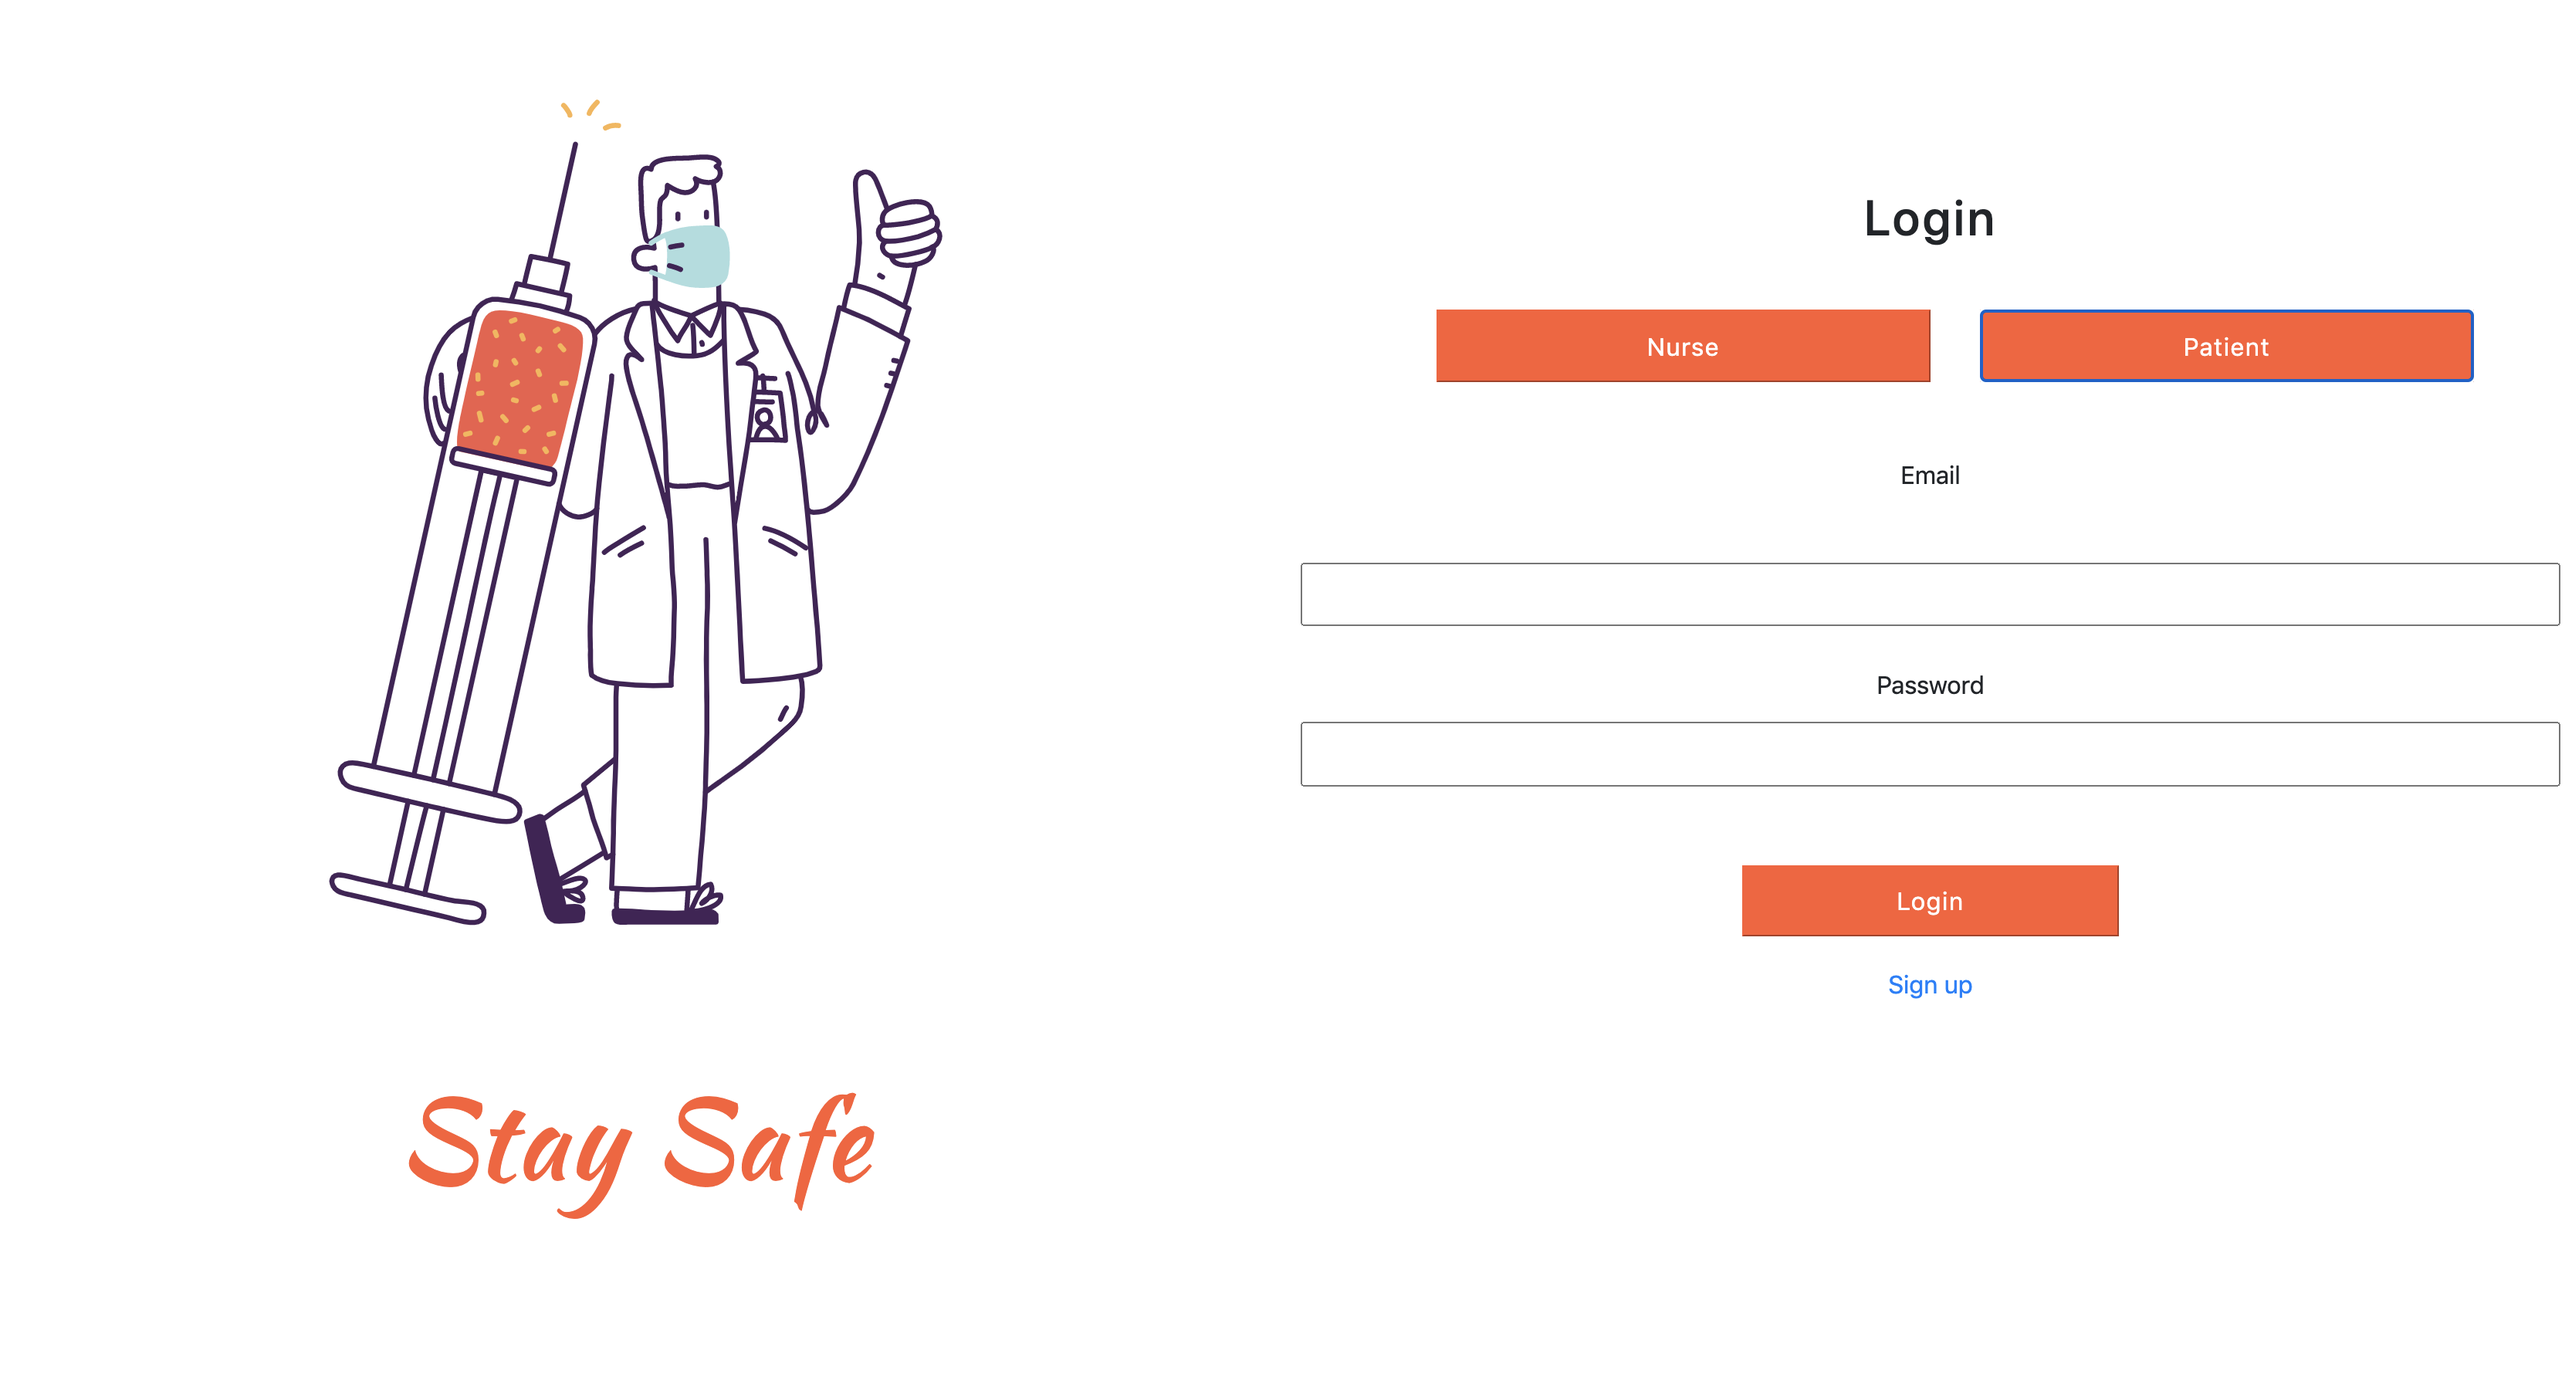
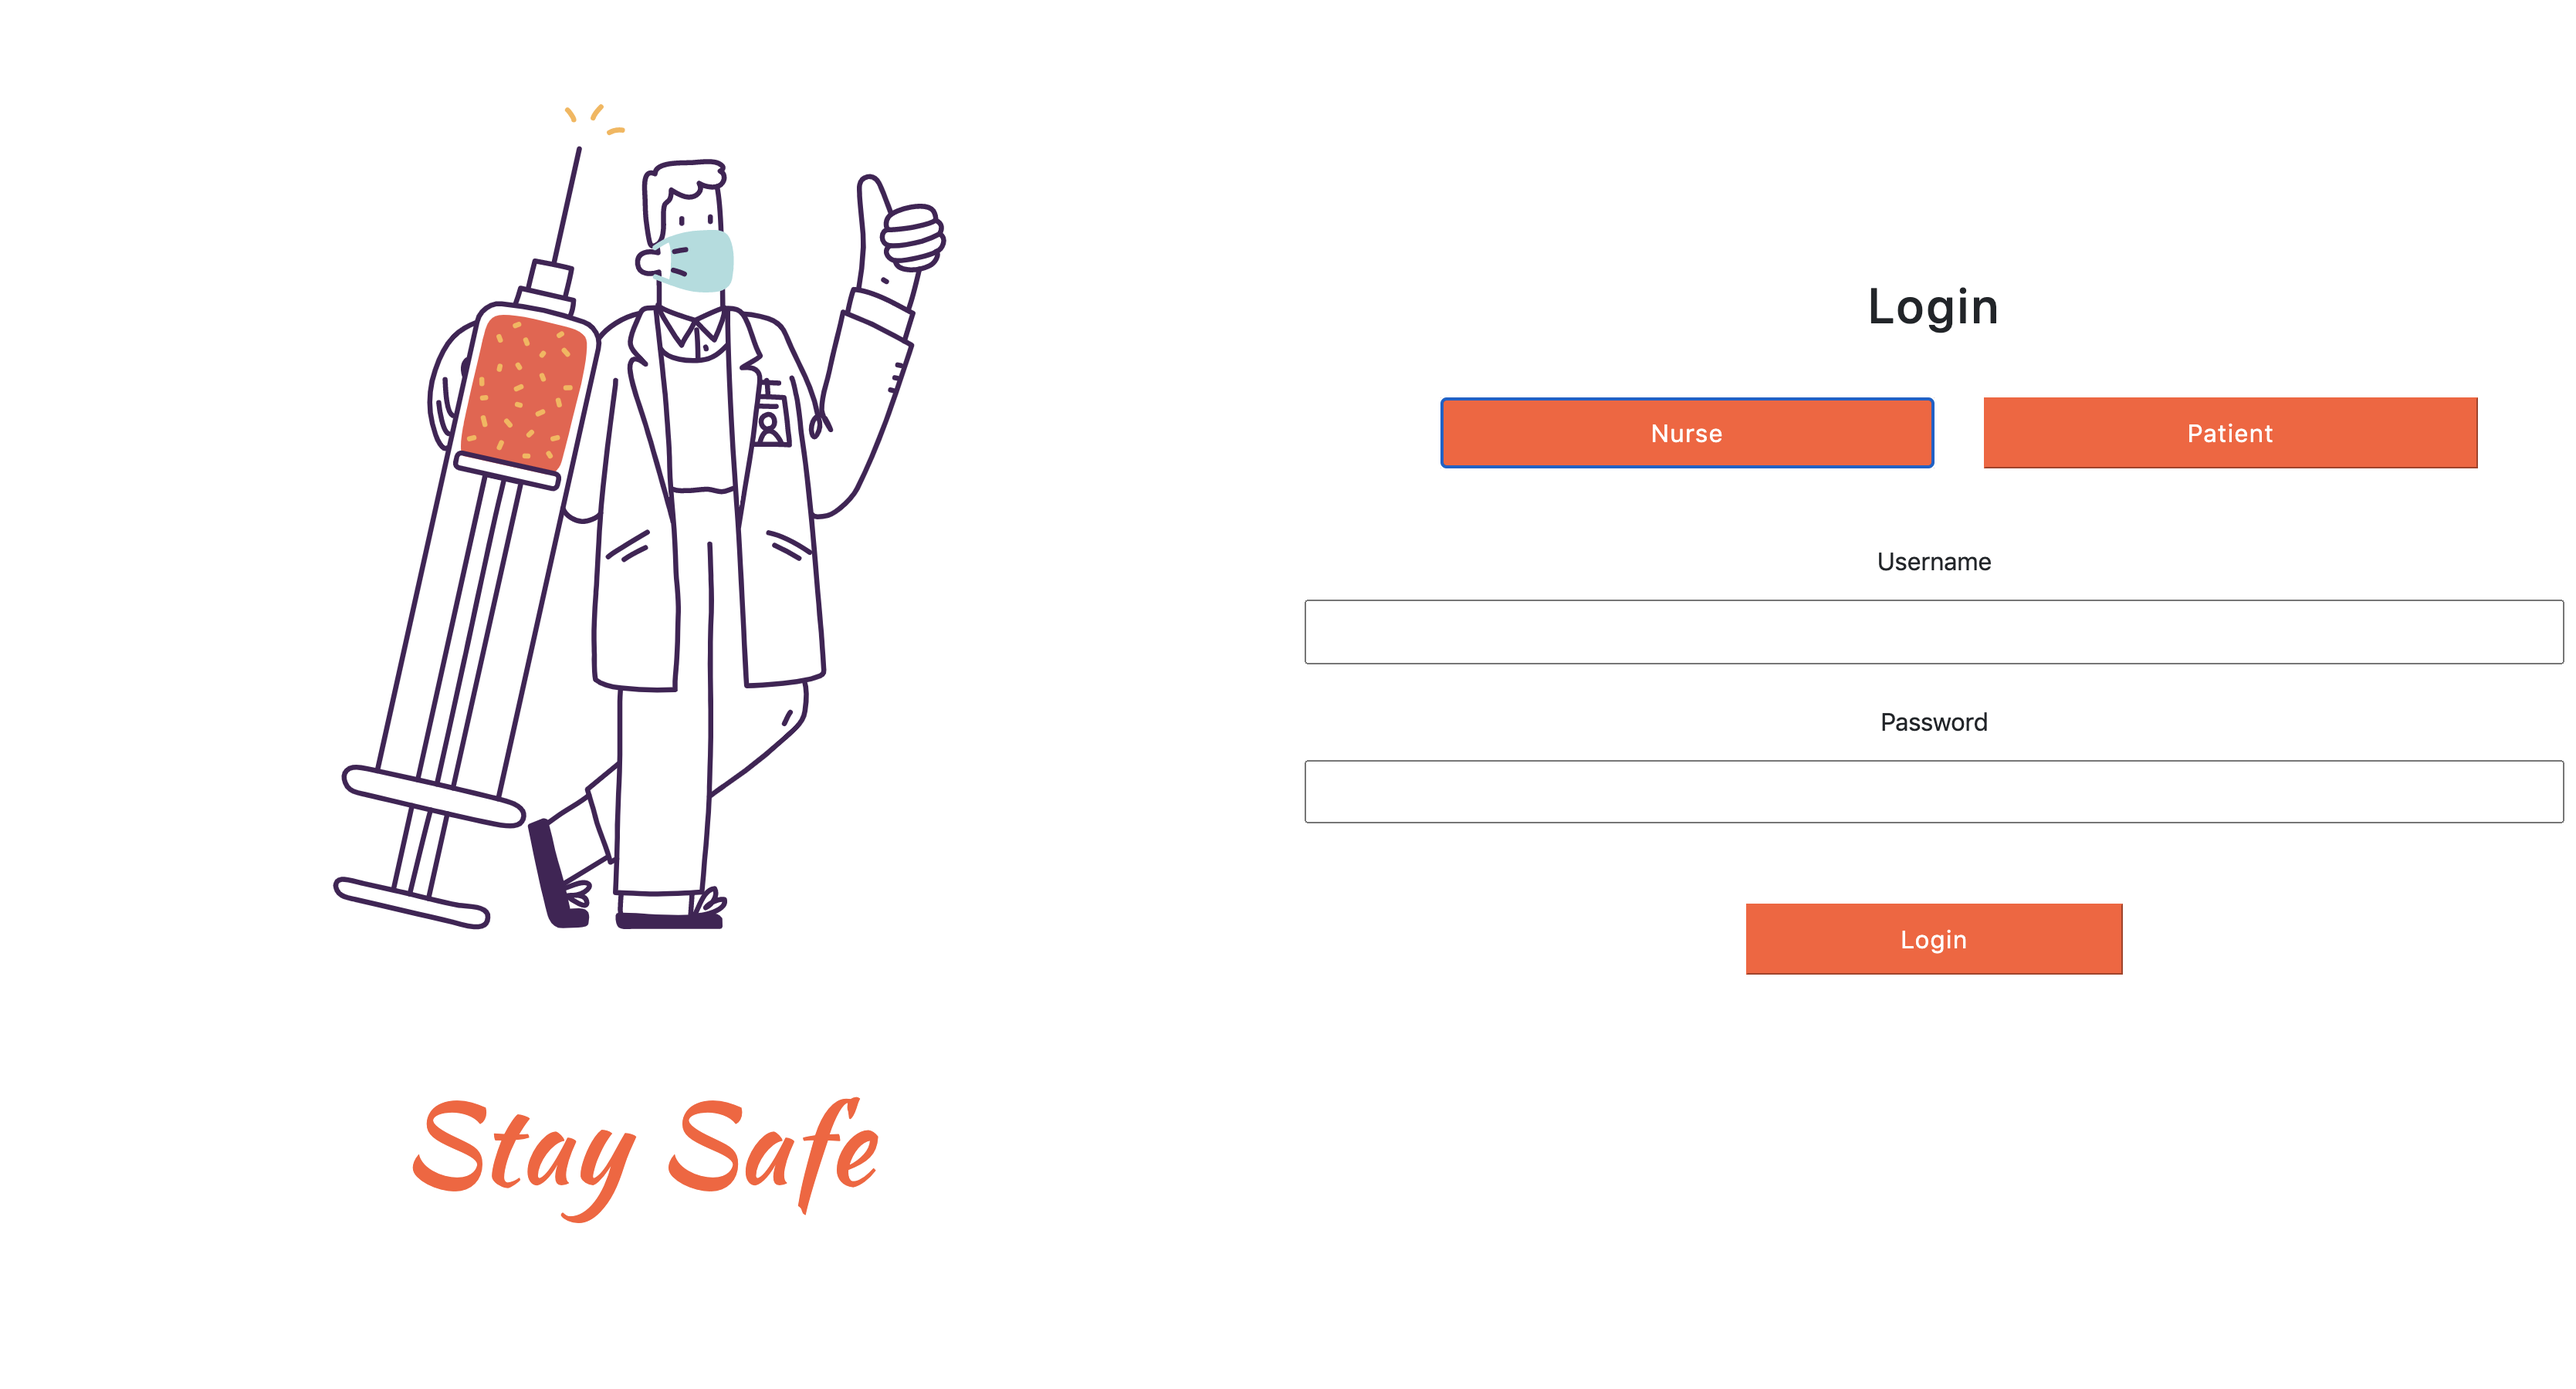
add stay safe project information

diff --git a/stay_safe.html b/stay_safe.html
@@ -105,7 +105,13 @@
           />
         </div>
         <div class="col-md-5">
-          <p>The login is the home page</p>
+          <p>
+            The login is also the home page. In the login page the user can
+            choose whether to log in as a nurse or a patient. As a nurse the
+            user can log in using the username/password and as a patient the
+            user can log in using his email/password. A user can also sign up as
+            a new patient.
+          </p>
         </div>
       </div>
     </section>
@@ -113,13 +119,17 @@
     <section class="movies-search-section">
       <div class="row align-items-center h-100 text-center search">
         <div class="col-md-5 offset-md-1">
-          <p></p>
+          <img
+            src="images/staysafe/login_nurse.png"
+            alt="Nurse Login"
+            class="d-block mx-auto img-w100"
+          />
         </div>
         <div class="col-md-5">
           <img
-            src="images/mymovies/mymovies_search.png"
-            alt="My Movies Search Page"
-            class="d-block mx-auto img-w80"
+            src="images/staysafe/login_patient.png"
+            alt="Patient Login"
+            class="d-block mx-auto img-w100"
           />
         </div>
       </div>
@@ -128,25 +138,38 @@
     <section class="movies-search-text-section">
       <div class="row text-justify">
         <div class="col-md-8 offset-md-2">
-          <p></p>
+          <p>
+            After logging in, if a patient has an appointment booked, he has the
+            option to either update or delete the appointment. If the user
+            chooses to update the appointment, he needs to fill out a form with
+            the new appointment information. Once the appointment is updated,
+            the user gets a confirmation message.
+          </p>
         </div>
       </div>
     </section>
 
     <section class="movies-search-img-section">
       <div class="row">
-        <div class="col-md-5 offset-md-1">
+        <div class="col-md-4">
           <img
-            src="images/mymovies/mymovies_all.png"
-            alt="My Movies All Tab"
-            class="d-block mx-auto img-w80"
+            src="images/staysafe/appt_booked.png"
+            alt="Appointment Booked"
+            class="d-block mx-auto img-w90"
           />
         </div>
-        <div class="col-md-5">
+        <div class="col-md-4">
           <img
-            src="images/mymovies/mymovies_status.png"
-            alt="My Movies Status"
-            class="d-block mx-auto img-w80"
+            src="images/staysafe/appt_update.png"
+            alt="Appointment Update"
+            class="d-block mx-auto img-w90"
+          />
+        </div>
+        <div class="col-md-4">
+          <img
+            src="images/staysafe/appt_update_msg.png"
+            alt="Appointment Update Confirmation Message"
+            class="d-block mx-auto img-w90"
           />
         </div>
       </div>
@@ -154,47 +177,51 @@
 
     <section class="movies-status-section">
       <div class="row text-justify">
-        <div class="col-md-8 offset-md-2">
-          <p></p>
+        <div class="col-md-5 offset-md-1">
+          <img
+            src="images/staysafe/new_appt.png"
+            alt="New Appointment"
+            class="d-block mx-auto img-w100"
+          />
+        </div>
+        <div class="col-md-5">
+          <p>
+            If a user does not have an appointment booked or if the appointment
+            was deleted, he can fill out the form to book a new appointment
+          </p>
         </div>
       </div>
     </section>
 
     <section class="movies-status-img-section">
       <div class="row">
-        <div class="col-md-4">
-          <img
-            src="images/mymovies/mymovies_wishlist.png"
-            alt="My Movies Wish List Tab"
-            class="d-block mx-auto img-w90"
-          />
+        <div class="col-md-5 offset-md-1">
+          <p>
+            After a new patient signs up, he needs to fill out a form with his
+            profile information to determine if he is in the high priority group
+            to get vaccinated. After filling out the form, he gets redirected to
+            a page where he can book an appointment.
+          </p>
         </div>
-        <div class="col-md-4">
+        <div class="col-md-5">
           <img
-            src="images/mymovies/mymovies_watched.png"
-            alt="My Movies Wish List Tab"
-            class="d-block mx-auto img-w90"
-          />
-        </div>
-        <div class="col-md-4">
-          <img
-            src="images/mymovies/mymovies_watchedrate.png"
-            alt="My Movies Wish List Tab"
-            class="d-block mx-auto img-w90"
+            src="images/staysafe/patient_signup.png"
+            alt="Patient Sign-up"
+            class="d-block mx-auto img-w100"
           />
         </div>
       </div>
     </section>
 
     <section class="movies-summary-section">
-      <div class="row text-center">
+      <!-- <div class="row text-center">
         <div class="col-md-8 offset-md-2">
-          <p></p>
+          <p>text</p>
         </div>
-      </div>
+      </div> -->
 
       <div class="row">
-        <div class="col-md-8 offset-md-2">
+        <div class="col-md-5 offset-md-1">
           <img
             src="images/mymovies/mymovies_allsummary.png"
             alt="My Movies All Summary"
